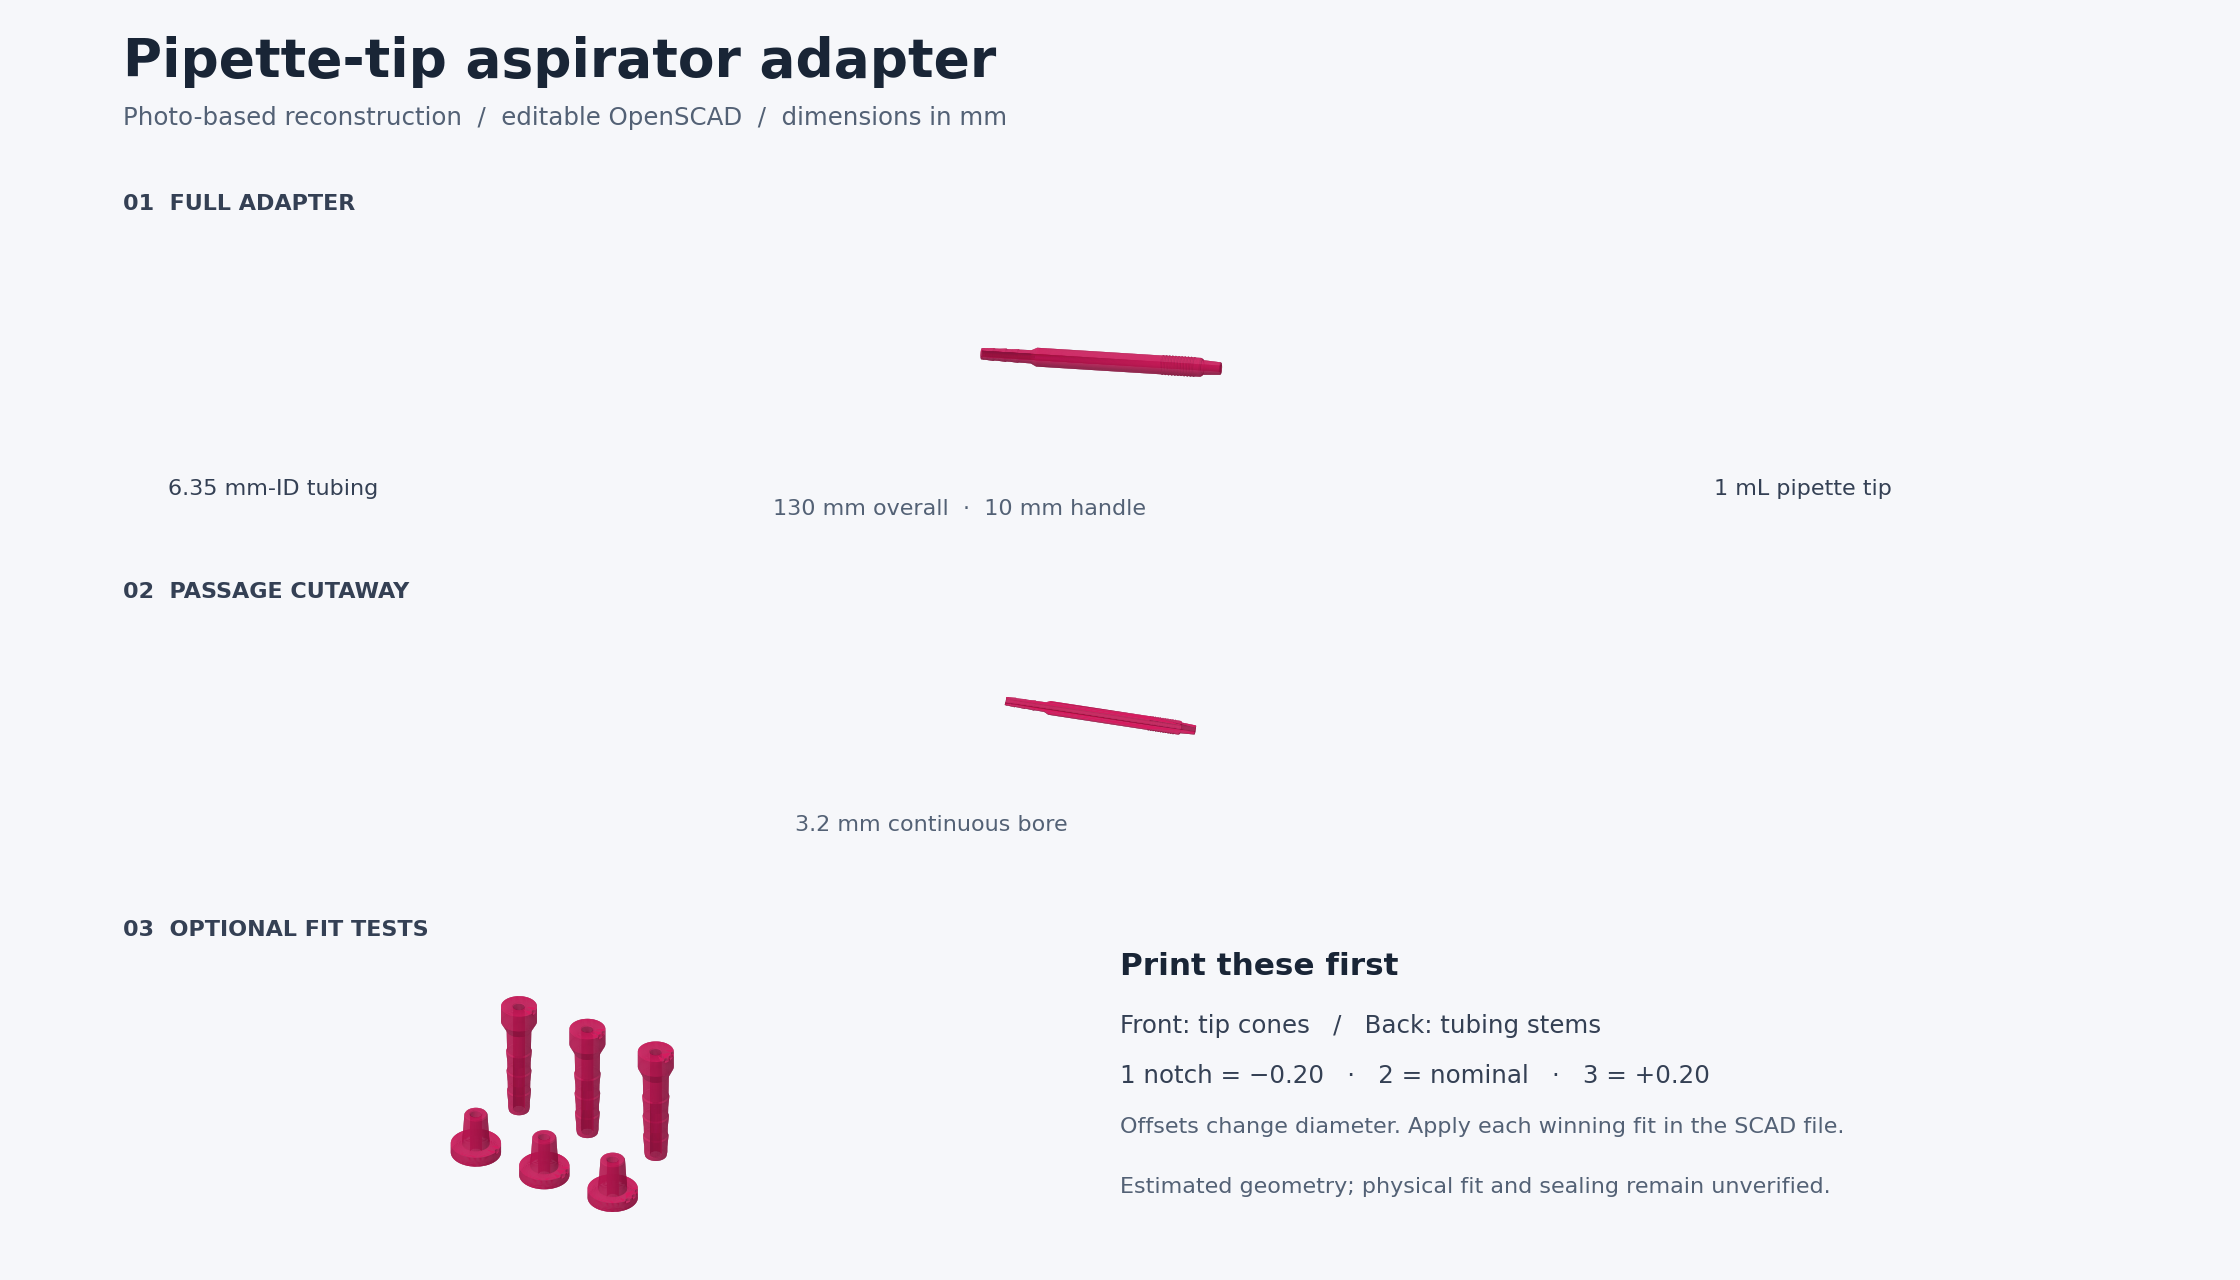
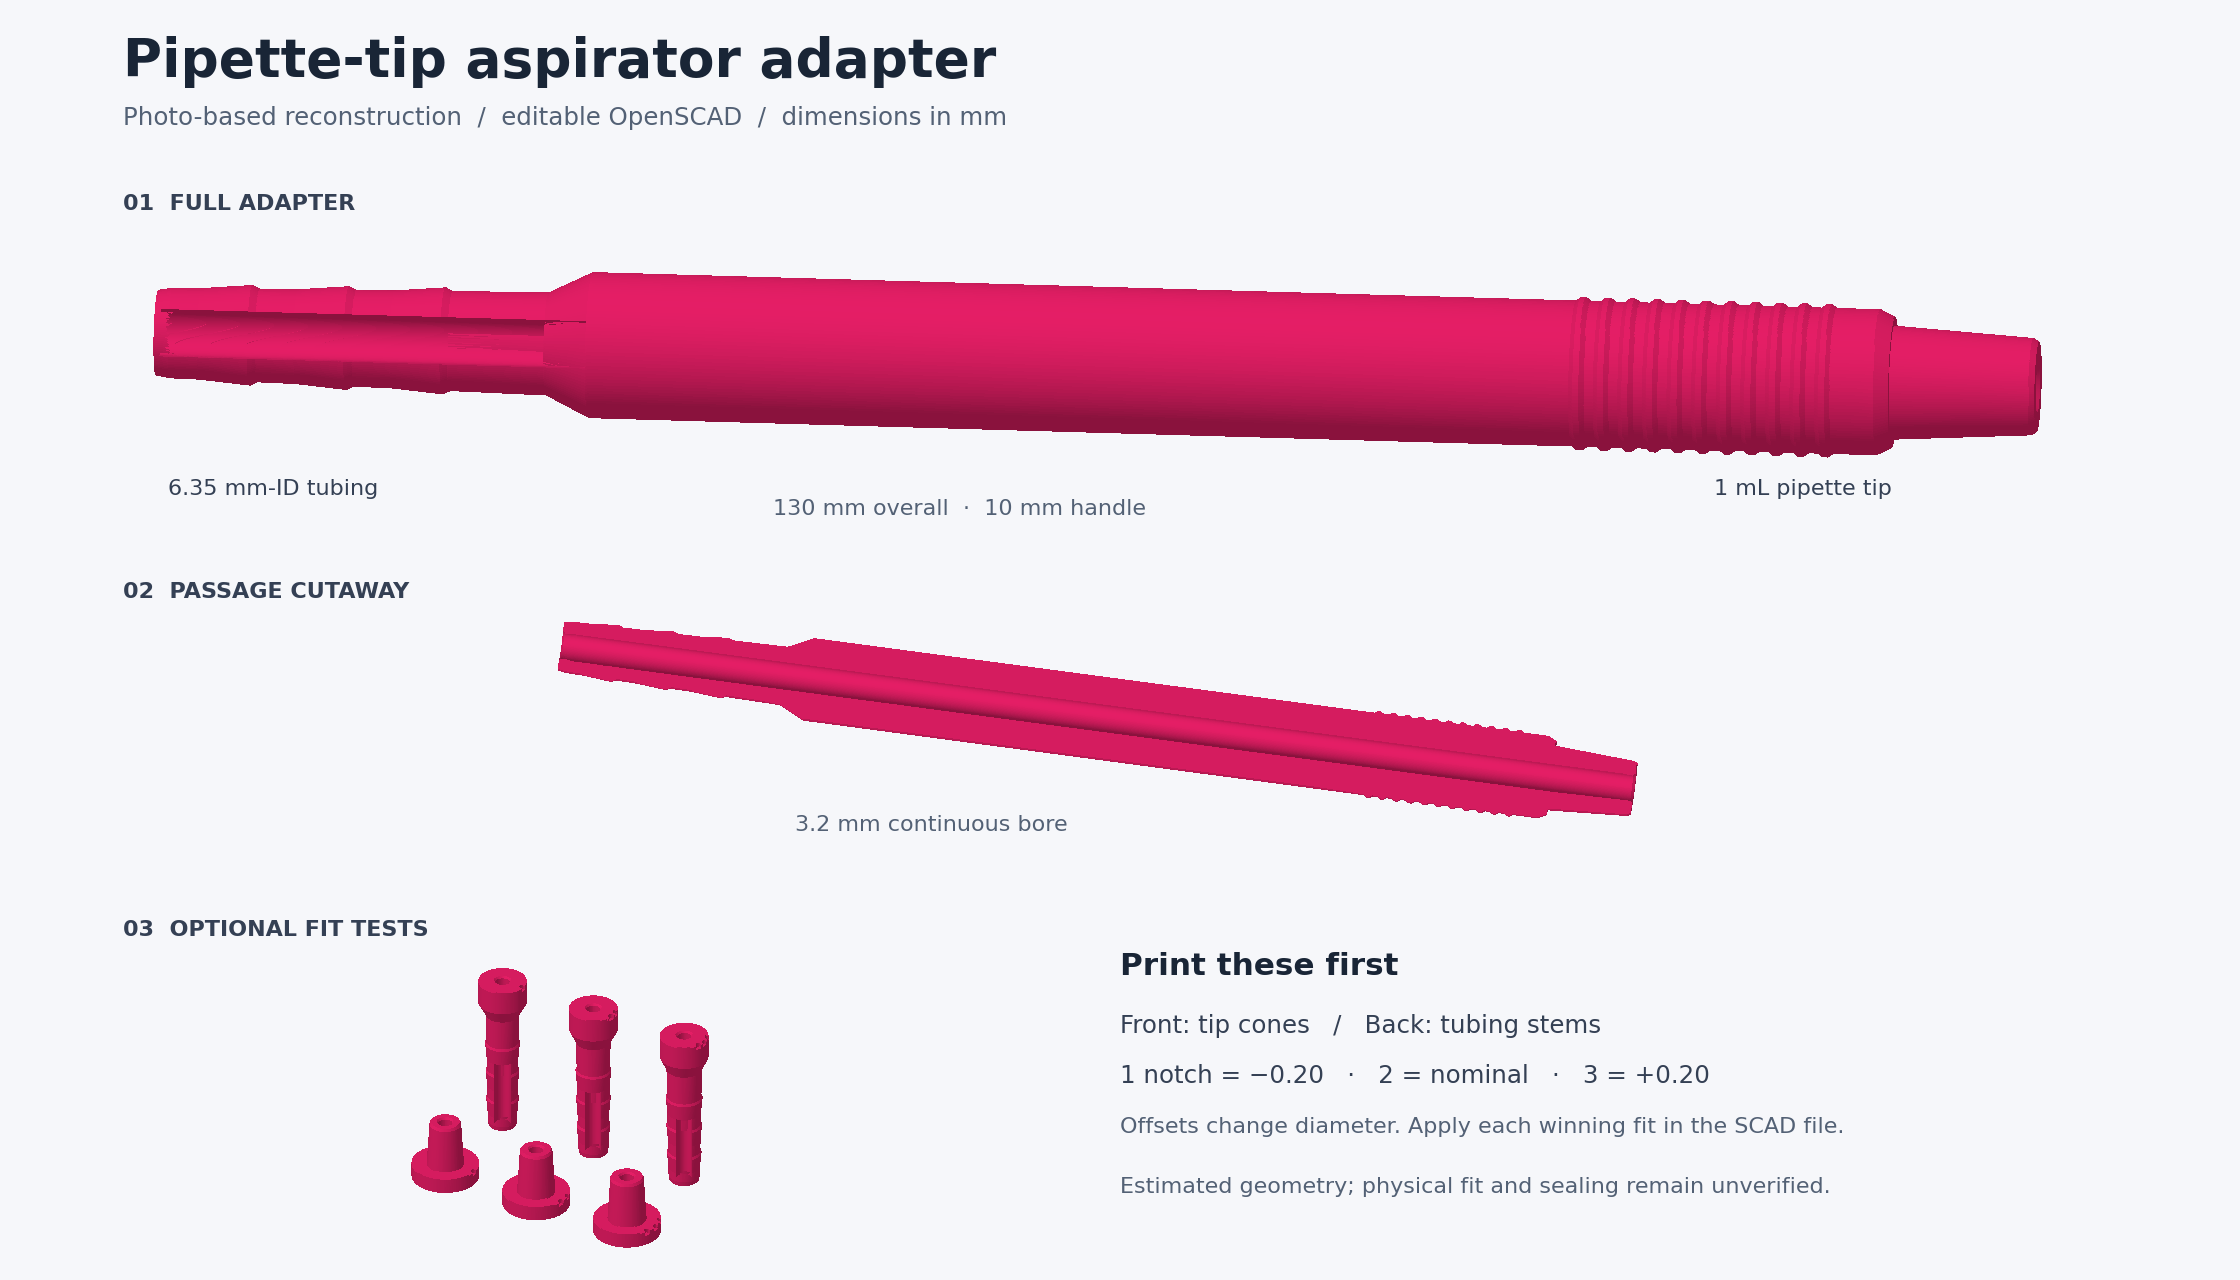
Enhance aspirator adapter documentation and validate CAD geometry
- Added a cutaway image of the aspirator adapter to improve visual understanding.
- Included validation notes confirming the accuracy of the CAD geometry and mesh integrity.
- Updated README structure for better clarity and organization.

These changes aim to provide users with comprehensive information on the aspirator adapter and ensure the reliability of the CAD models.

Changed region(s): [[0.0625, 0.1875, 0.9375, 0.375], [0.25, 0.4688, 0.75, 0.6562], [0.1875, 0.75, 0.3125, 0.9688]]

diff --git a/BuildYourOwn/cad/connector/aspirator_adapter_notes.md b/BuildYourOwn/cad/connector/aspirator_adapter_notes.md
@@ -6,6 +6,8 @@ This is a photo-based reconstruction of the Fisher/AssayCell pen-shaped adapter.
 
 ## Fit first
 
+![Adapter, cutaway, and fit coupons](aspirator_adapter_preview.png)
+
 Set `part = "fit_tests"`. This produces six separate coupons with through-holes. The front row has three pipette-tip cones; the back row has three tubing stems. Count the notches in each coupon's grip rim:
 
 | Notches | Diameter change from current fit settings |
@@ -35,5 +37,7 @@ PLA is a prototype material here. The commercial product's autoclavability does 
 - [HYKYHT open-source aspiration system, HardwareX (2024)](https://pmc.ncbi.nlm.nih.gov/articles/PMC10848023/): related single/multichannel aspiration architecture and liquid-trap context. Its CAD was not copied.
 
 The reconstruction uses shallow sloped ribs in place of uncertain molded detail and a straight open passage whose original diameter is unknown. No ejector, valve, or vent is added. All geometry in the SCAD file is newly authored.
+
+Validation on 2026-10-12: all three modes rendered with OpenSCAD's WebAssembly engine. The full adapter exported as one closed manifold mesh with an open axial passage; the fit set exported as six separate closed manifold meshes. No mesh-edge or winding errors were found. The full model's bounds are 10.5 × 10.5 × 130 mm including grip rings. This validates CAD geometry, not printed-part sealing or compatibility.
 
 License: hardware CERN-OHL-W-2.0 — see [LICENSE](../../../LICENSE). These notes are documentation under the repository's CC BY-SA 4.0 terms.

diff --git a/README.md b/README.md
@@ -1,9 +1,9 @@
-# RheoBoard
-
 ## Start here: [Wiki](https://github.com/The-Hybrid-Atelier/RheoBoard/wiki)
 
 - [What is REP?](https://github.com/The-Hybrid-Atelier/RheoBoard/wiki/What-is-REP)
 - [Build options](https://github.com/The-Hybrid-Atelier/RheoBoard/wiki/Build-options)
+
+# RheoBoard
 
 <img src="docs/img/home-versions.png" alt="RheoBoard" width="720">
 
